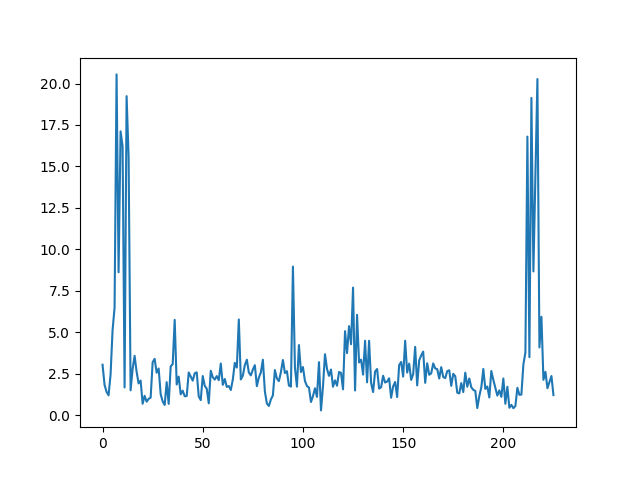
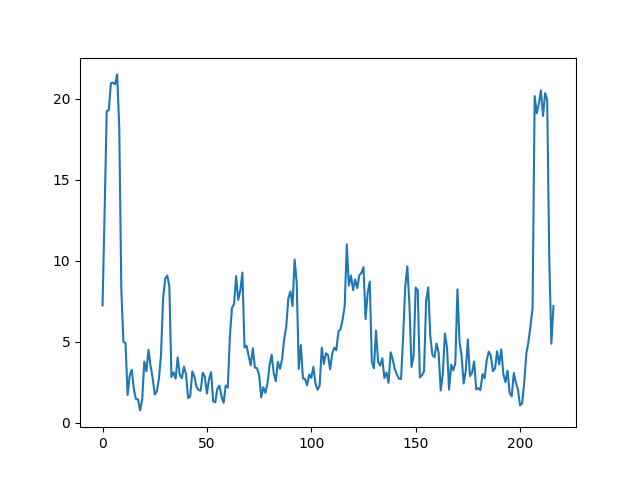
Hotfixes for Bell Time and Pandas

diff --git a/BellFunctions.py b/BellFunctions.py
@@ -183,27 +183,33 @@ def detect_bell_and_return_timings(path_to_audio_file):
     # get index of t where bell_flag_all is true
     tBellIndexes = np.where(bell_flag_all)[0]
     tBell = t[tBellIndexes]
-
-    collectTimes = []
-    currentTime = tBell[0]
-    for i in range(len(tBell)):
-        if i == 0:
-            continue
-        else:
-            previousTime = currentTime
-            currentTime = tBell[i]
-            if currentTime - previousTime < 1:
+    if len(tBell) == 0:
+        # Set tBellStart to 0 and tBellEnd to last
+        tBellStart = 0
+        tBellEnd = t[-1]
+    else:
+        collectTimes = []
+        currentTime = tBell[0]
+        for i in range(len(tBell)):
+            if i == 0:
                 continue
             else:
-                collectTimes.append([previousTime, currentTime])
+                previousTime = currentTime
+                currentTime = tBell[i]
+                if currentTime - previousTime < 1:
+                    continue
+                else:
+                    collectTimes.append([previousTime, currentTime])
+        tBellStart = collectTimes[0][0]
+        tBellEnd = collectTimes[0][-1]
+
+    # print("_____________________________________________")
+    # print(tBellStart, tBellEnd)
 
     # %%
     # Segregate into start and end bell times
     # tBellStart = tBell[tBell < t[-1] / 2]
     # tBellEnd = tBell[tBell >= t[-1] / 2]
-
-    tBellStart = collectTimes[0][0]
-    tBellEnd = collectTimes[0][-1]
 
     # # remove outliers
     # if len(tBellStart) > 10:

diff --git a/inference.py b/inference.py
@@ -8,10 +8,11 @@ import pandas as pd
 import matplotlib.pyplot as plt
 import librosa
 import soundfile as sf
-from pyAudioAnalysis import ShortTermFeatures
-import tensorflow as tf
-from sklearn.neural_network import MLPRegressor
-from sklearn.preprocessing import StandardScaler, RobustScaler
+
+# from pyAudioAnalysis import ShortTermFeatures
+# import tensorflow as tf
+# from sklearn.neural_network import MLPRegressor
+# from sklearn.preprocessing import StandardScaler, RobustScaler
 import pickle as pkl
 from AudioFunctions import *
 from BellFunctions import detect_bell_and_return_timings
@@ -35,9 +36,13 @@ BellStart, BellEnd = detect_bell_and_return_timings(audio_file_path)
 # Cut audio file at BellStart and BellEnd
 pad = 0.5
 audioFile, Fs = librosa.load(audio_file_path, sr=None)
-BellStartIdx = int((BellStart + pad) * Fs)
-BellEndIdx = int((BellEnd - pad) * Fs)
-audioFile = audioFile[BellStartIdx:BellEndIdx]
+
+if BellStart == None:
+    audioFile = audioFile
+else:
+    BellStartIdx = int((BellStart + pad) * Fs)
+    BellEndIdx = int((BellEnd - pad) * Fs)
+    audioFile = audioFile[BellStartIdx:BellEndIdx]
 
 # Extract features
 F, f_names = GiveMeFreqInfo(audioFile, Fs)

diff --git a/AudioFunctions.py b/AudioFunctions.py
@@ -13,7 +13,7 @@ from sklearn.preprocessing import StandardScaler, RobustScaler
 def GiveMeData(path_to_audio, path_to_csv):
     audioFile = path_to_audio
     x, Fs = librosa.load(audioFile, sr=None)
-    superFlow_df = pd.read_csv(path_to_csv, on_bad_lines="warn")
+    superFlow_df = pd.read_csv(path_to_csv, error_bad_lines=False)
     # return superFlow_df column names
     voidedVolume = superFlow_df["Vmic"].to_numpy()
     voidedVolume_diff = np.diff(voidedVolume[::2])
